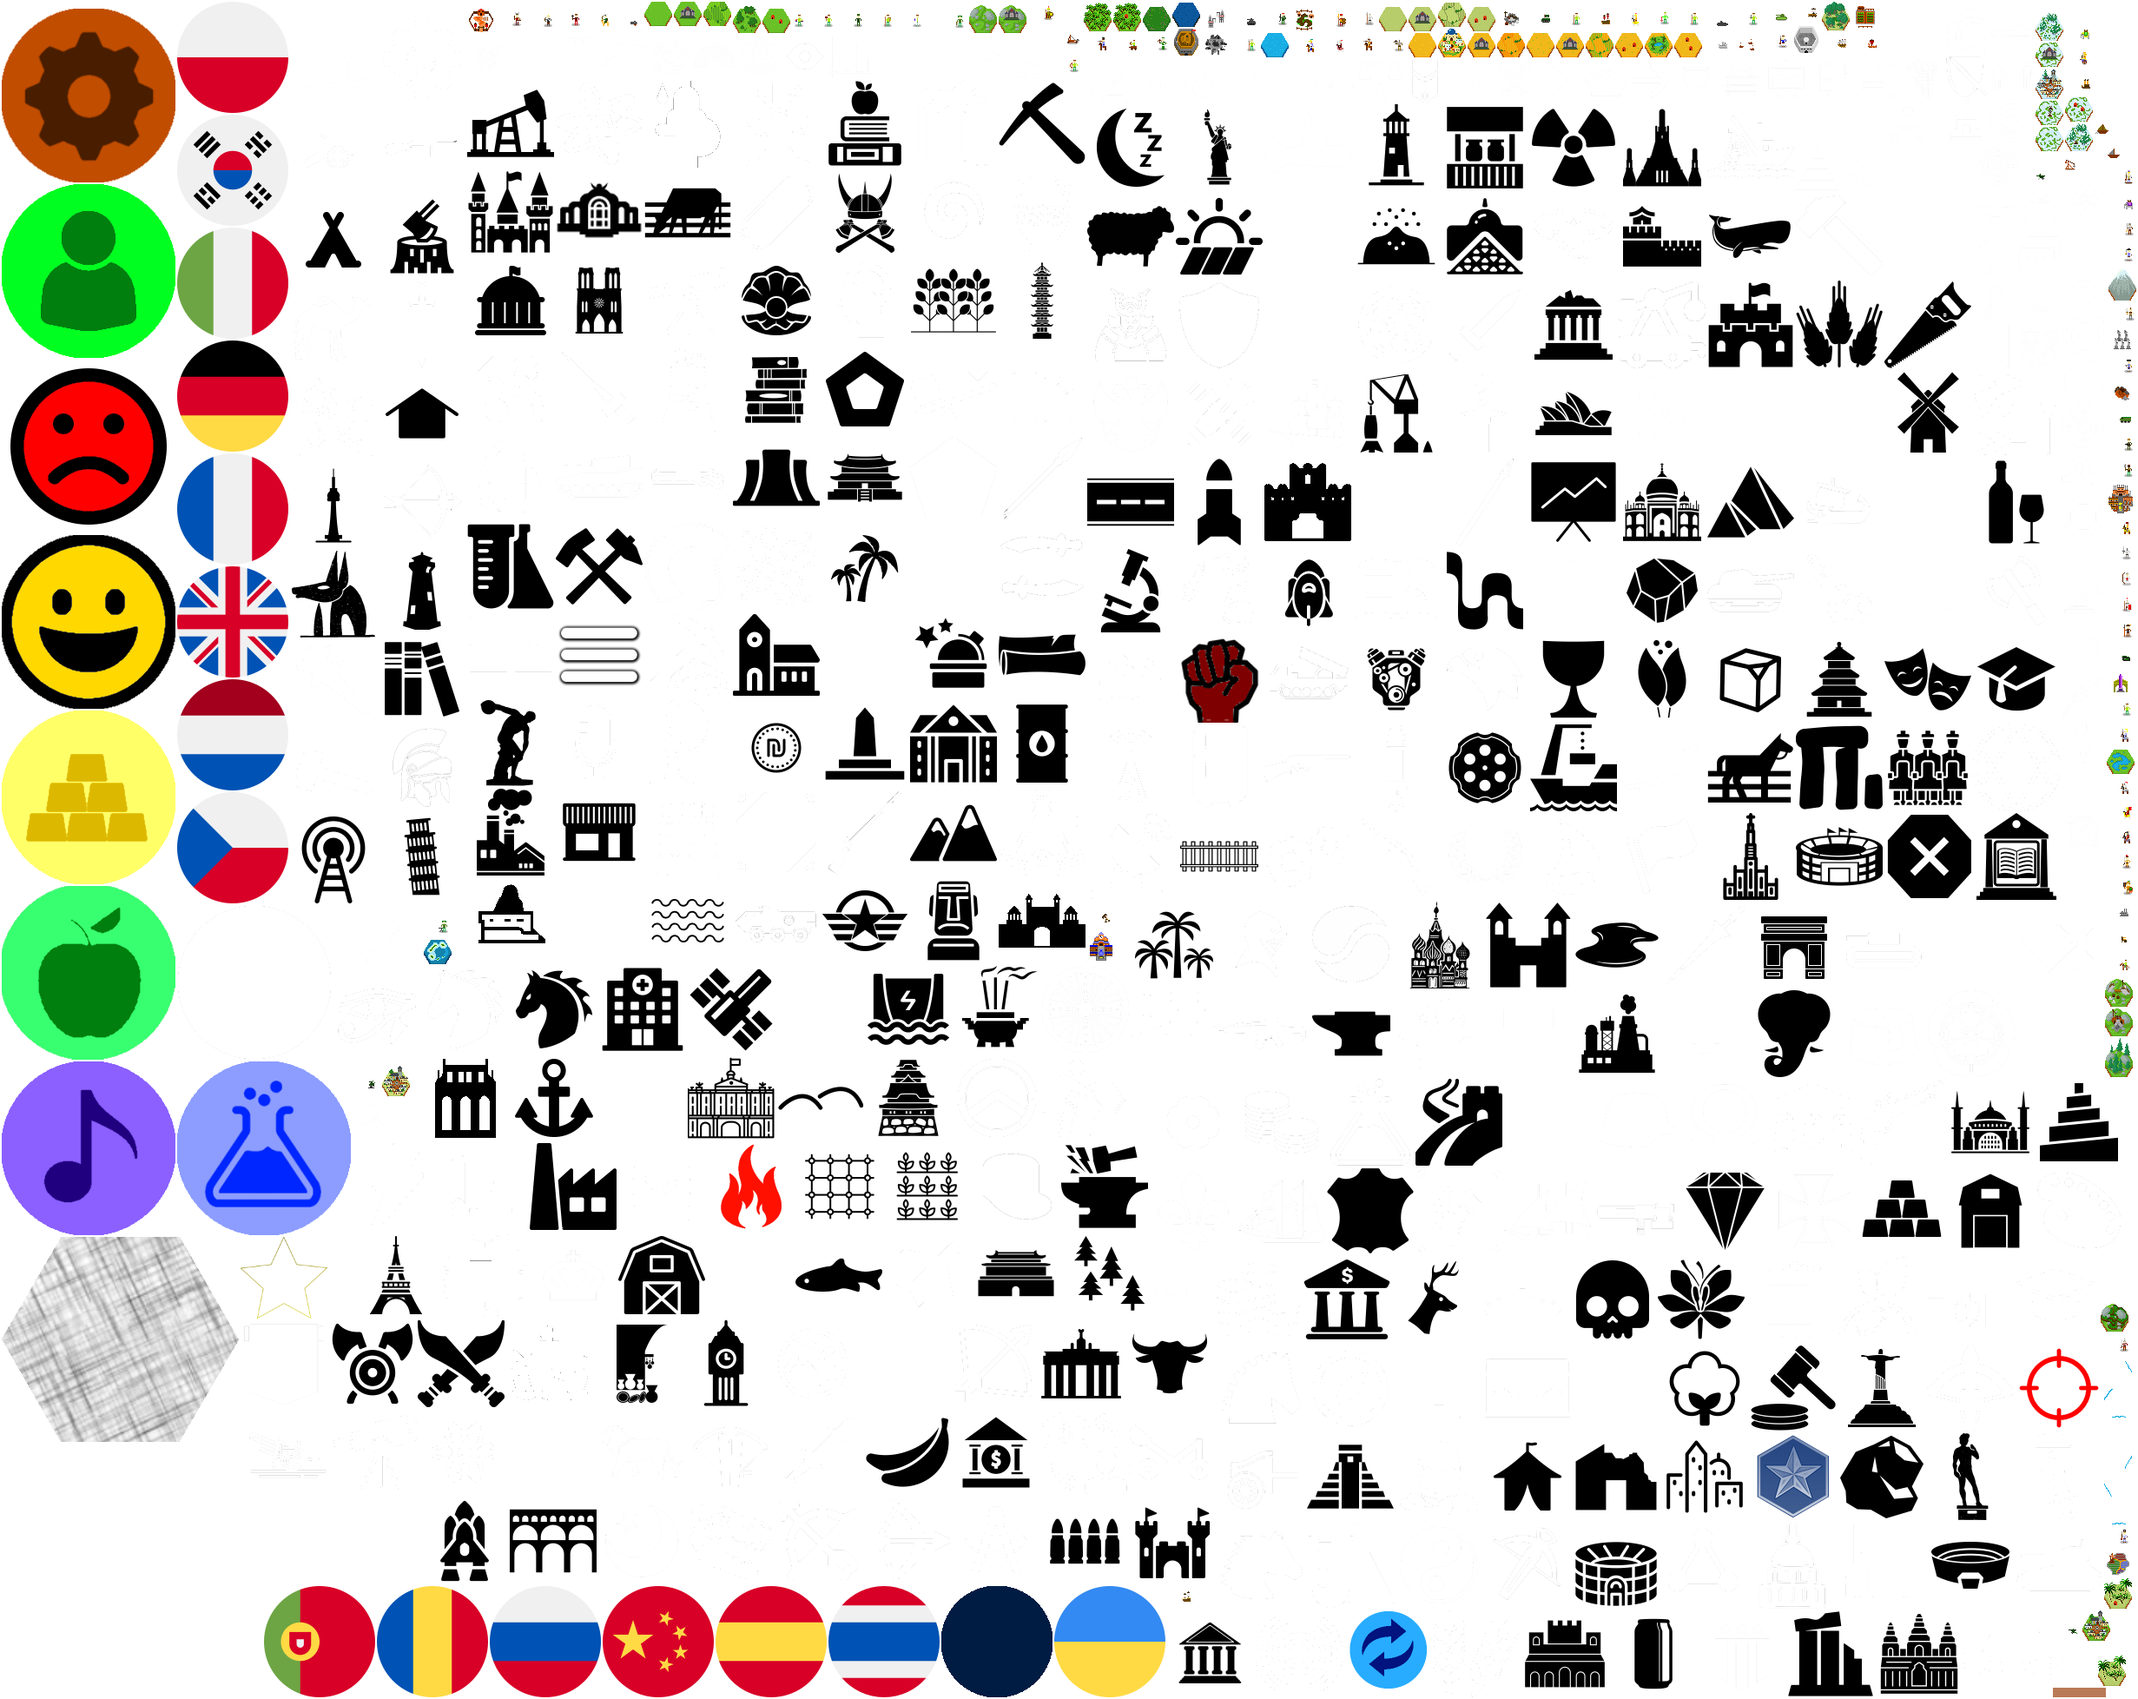
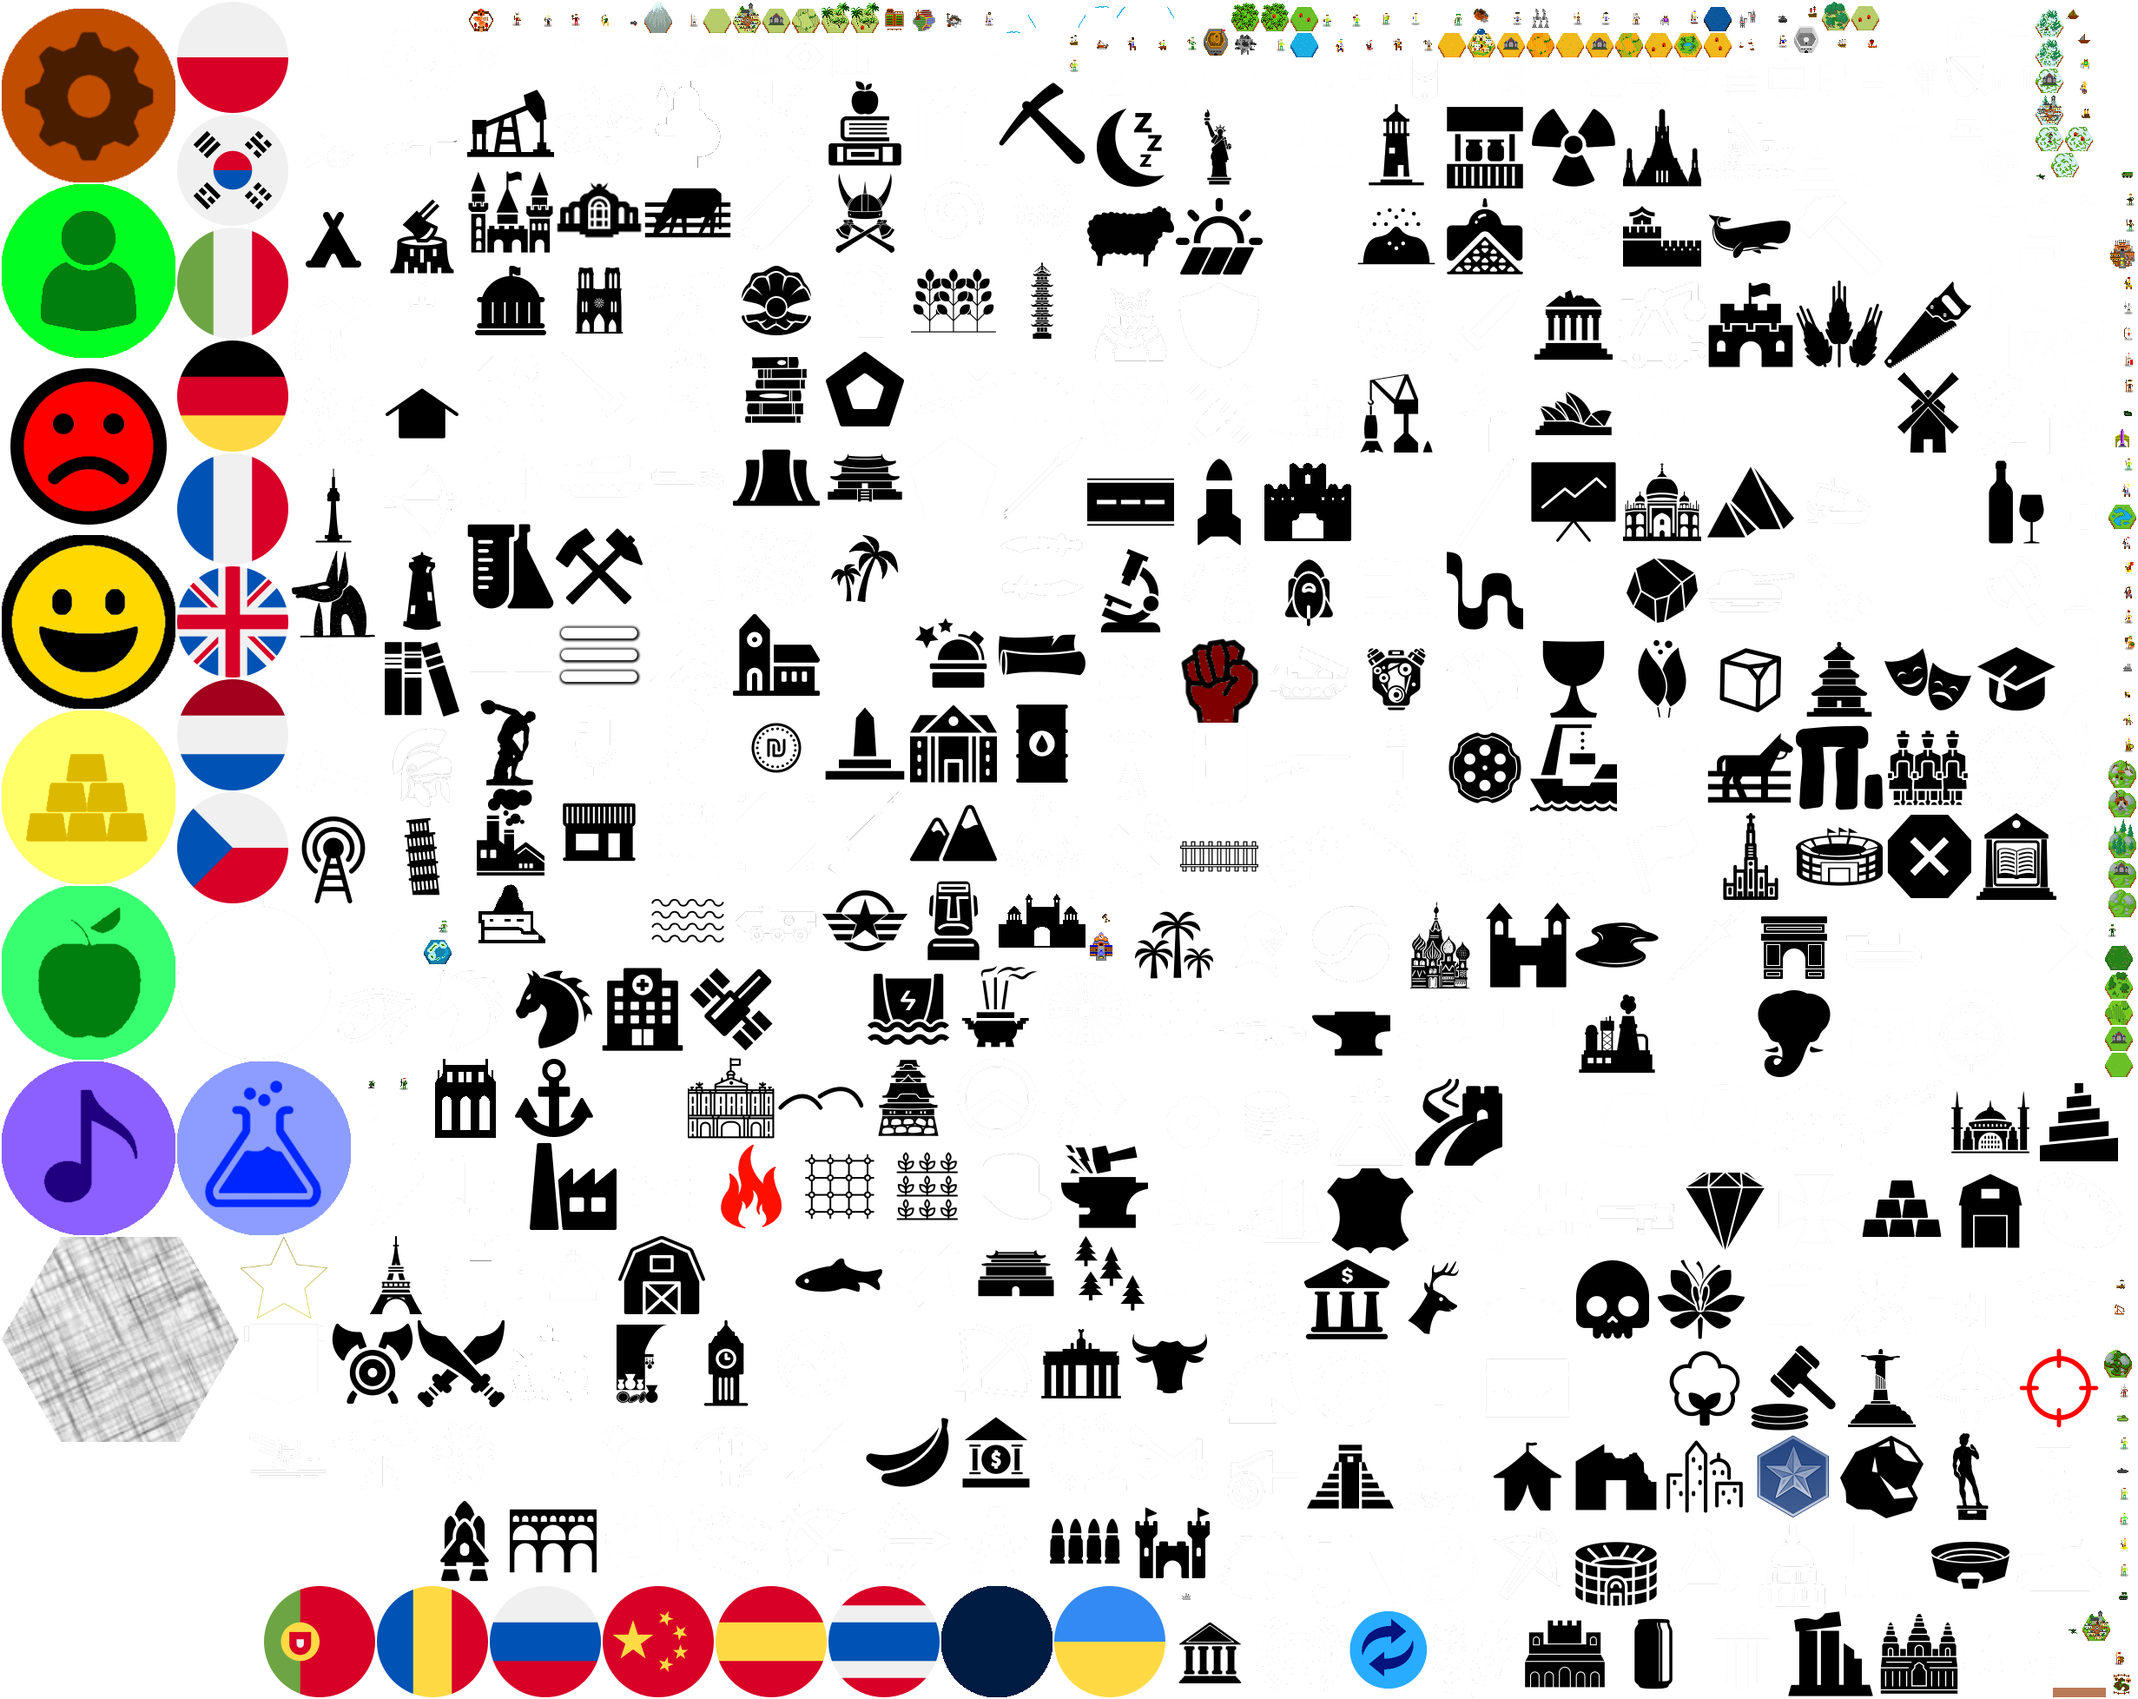
Base image tiles on tiles with improvement images are now grayed out when not visible

diff --git a/core/src/com/unciv/ui/tilegroups/TileGroup.kt b/core/src/com/unciv/ui/tilegroups/TileGroup.kt
@@ -215,7 +215,7 @@ open class TileGroup(var tileInfo: TileInfo, var tileSetStrings:TileSetStrings) 
         hideCircle()
         if (viewingCiv != null && !showEntireMap
                 && !viewingCiv.exploredTiles.contains(tileInfo.position)) {
-            tileBaseImages.firstOrNull()?.color = Color.DARK_GRAY
+            for(image in tileBaseImages) image.color = Color.DARK_GRAY
             return
         }
 
@@ -388,7 +388,7 @@ open class TileGroup(var tileInfo: TileInfo, var tileSetStrings:TileSetStrings) 
                 else tileInfo.getBaseTerrain().getColor()
 
         if (!isViewable) color =color.cpy().lerp(Color.BLACK, 0.6f)
-        tileBaseImages.firstOrNull()?.color = color
+        for(image in tileBaseImages) image.color = color
     }
 
     private fun updateTerrainFeatureImage() {

diff --git a/core/src/com/unciv/ui/tilegroups/WorldTileGroup.kt b/core/src/com/unciv/ui/tilegroups/WorldTileGroup.kt
@@ -36,17 +36,6 @@ class WorldTileGroup(internal val worldScreen: WorldScreen, tileInfo: TileInfo, 
             updateCityButton(city, tileIsViewable || UnCivGame.Current.viewEntireMapForDebug) // needs to be before the update so the units will be above the city button
 
         super.update(viewingCiv, UnCivGame.Current.settings.showResourcesAndImprovements)
-
-
-        // order by z index!
-        cityImage?.toFront()
-        terrainFeatureOverlayImage?.toFront()
-        icons.improvementIcon?.toFront()
-        resourceImage?.toFront()
-        cityButton?.toFront()
-        icons.civilianUnitIcon?.toFront()
-        icons.militaryUnitIcon?.toFront()
-        fogImage.toFront()
     }
 
 
